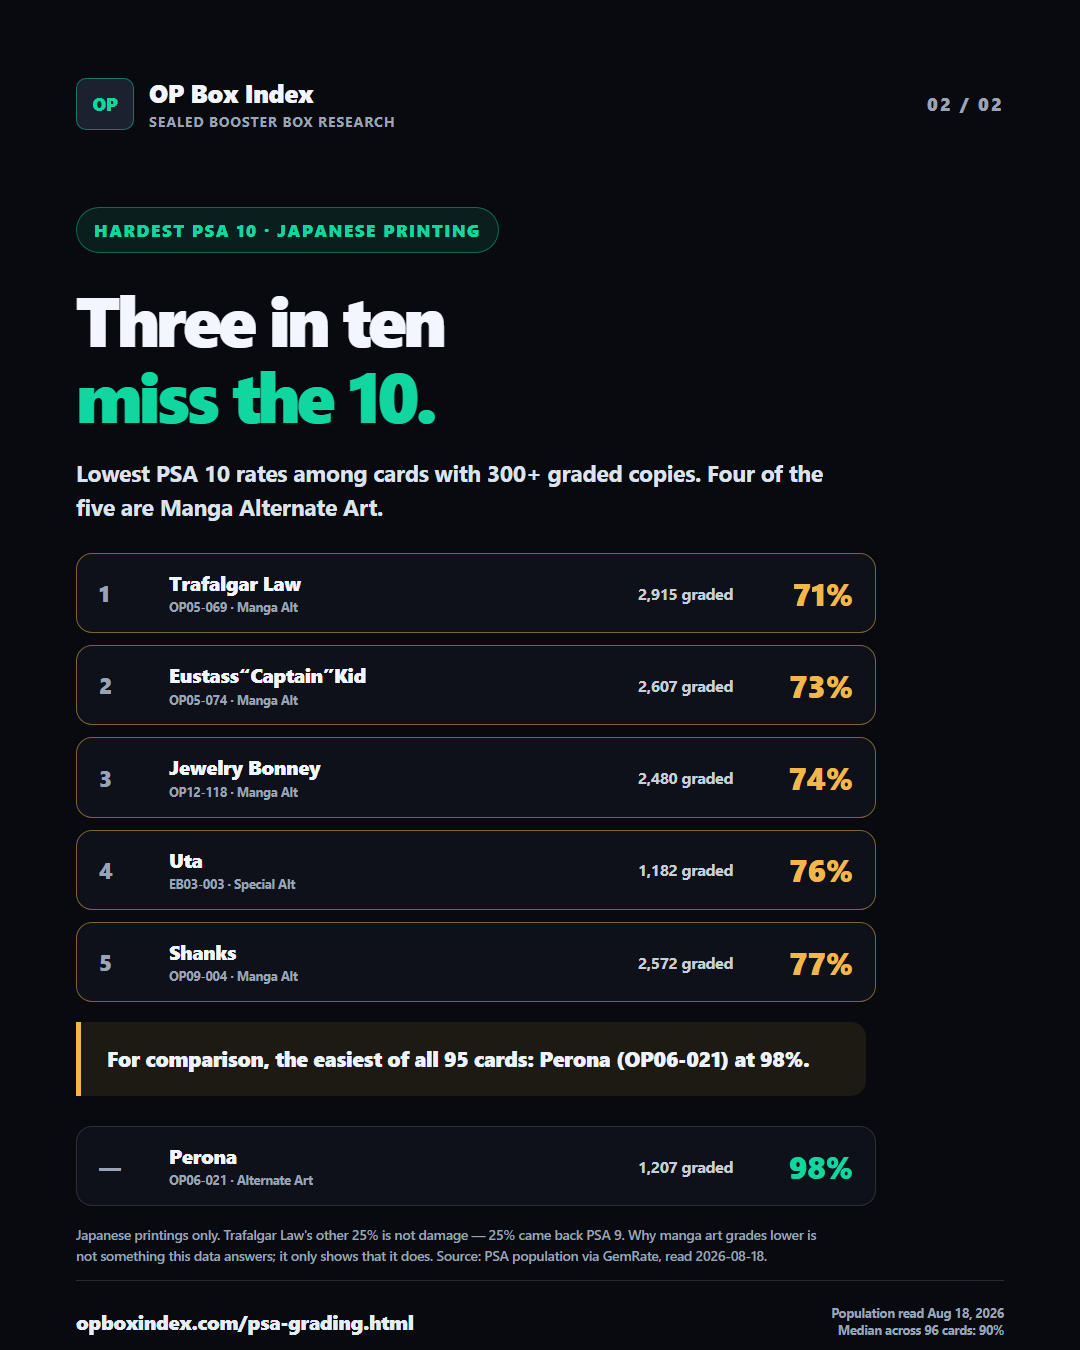
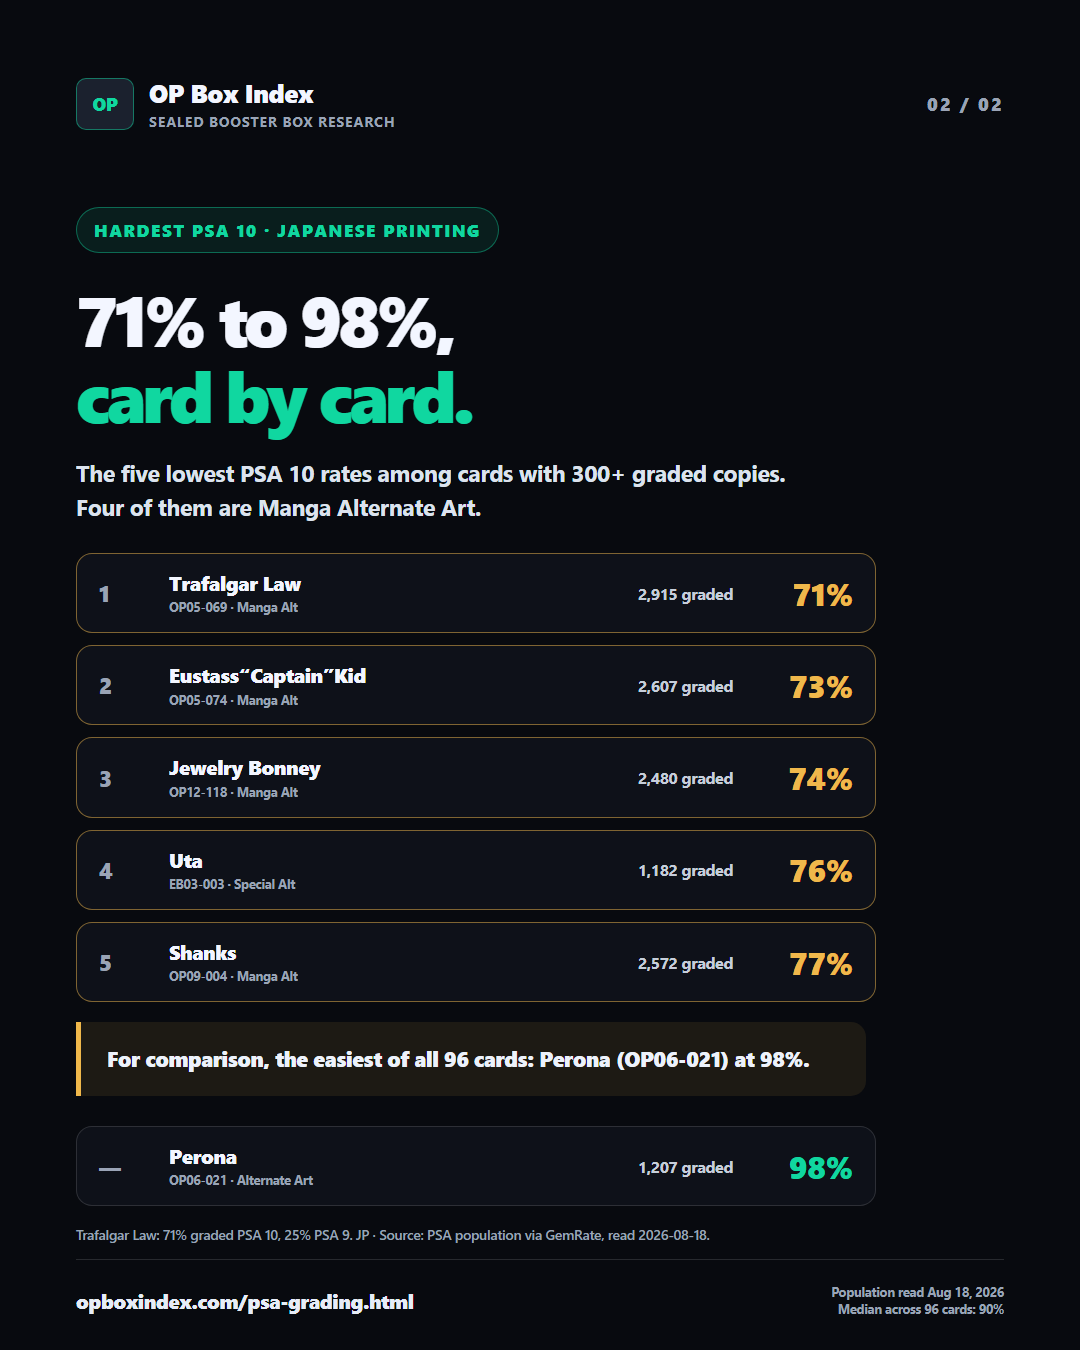
PSA 영문 7세트 보충 + 240 상한 판정을 실제 박스 건수로 교체
1) 어제 "요청 한도"로 오진했던 영문 7세트는 **교차 출처 차단**이었다.
   eBay 탭에서 gemrate.com 으로 fetch 하면 전부 FAIL 이 난다. gemrate 페이지 위에서
   같은 오리진으로 돌리니 7/7 이 한 번에 들어왔다(32건 적재). 이제 40세트가 다 찼다.
   post-copy.md 수집 메모에 이 조건을 적어 뒀다.

2) 240 상한 판정에서 rawN 을 걷어냈다. 어제 "137/210 페이지가 상한에 걸렸다"고 보고했는데
   그건 오독이다 — 우리 수집기 주석에 "rawN 을 상한 판정에 쓰지 말 것"이라고 적혀 있는데
   그걸 어겼다. eBay 는 결과가 적으면 유사 상품으로 240칸을 채운다.
   실측(2026-08-18, OP-16 영문 15만~30만): rawN 242 인데 진짜 부스터박스는 135건.
   그 구간을 반으로 쪼개 다시 받아 보니 145건(+7.4%), 과거로 11일 더. 전면 재수집으로
   얻을 게 7% 뿐이라는 뜻이라, 다음 수집 때 가격대만 늘리는 쪽이 맞다.
   판정은 이제 **우리가 박스로 판정한 행이 235 이상인 구간**만 잡는다.

3) 스레드 카드 문구 정리: 슬라이드 2 제목을 최저 카드 하나 이야기("Three in ten miss the 10")
   에서 이 장이 실제로 보여주는 것("71% to 98%, card by card")으로 바꿨다.
   두 장의 각주에서 방어 문장과 방법론 변명을 걷어내고 "JP · 300+ graded copies only" 로 줄였다.

Changed region(s): [[0.0611, 0.2178, 0.7639, 0.4044], [0.0611, 0.9022, 0.7639, 0.9956], [0.7639, 0.9333, 0.9472, 0.9956]]

diff --git a/tools/box-sold-ingest.js b/tools/box-sold-ingest.js
@@ -162,13 +162,19 @@ function main(dumpFile) {
   const drops = {};
   let backfilled = 0;   // 기존 레코드에 fmt 를 뒤늦게 채운 수
   const seenBySet = {};  // 세트별로 이번 덤프에서 본 유효 sold (스냅샷 계산용)
-  // eBay 는 한 검색에 240~265건까지만 준다(_pgn 은 무시된다). 그 수에 닿은 페이지는 **잘린 것**이라
-  // 그 구간의 오래된 판매를 못 봤다는 뜻이다. 조용히 넘어가면 "다 모았다"고 착각한다.
+  // eBay 는 한 검색에 240~265건까지만 준다(_pgn 은 무시된다). 그 수에 닿은 구간은 잘린 것이라
+  // 오래된 판매를 못 봤다는 뜻이다. 조용히 넘어가면 "다 모았다"고 착각한다.
+  //
+  // ⚠ 판정에 rawN 을 쓰면 안 된다 — 2026-08-18 실측: OP-16 영문 15만~30만 구간이 rawN 242 였는데
+  //    실제 부스터박스는 135건이고 나머지 107개는 eBay 가 채운 유사 상품이었다. 그 구간을 반으로
+  //    쪼개 봤더니 145건(+7%)에 그쳤다 — rawN 으로 세면 "137/210 페이지가 잘렸다"는 잘못된 경보가 난다.
+  //    실제로 잘렸는지는 **우리가 박스로 판정한 건수(kept)** 가 240 에 닿았는지로 본다.
   const cappedPages = [];
   for (const page of dump.pages || []) {
     const code = page.code;
     if (!data.sets[code]) continue;
-    if (Number(page.rawN) >= 240) cappedPages.push(code + "/" + page.query + (page.band != null ? "/" + page.band : ""));
+    const boxLike = (page.items || []).filter((it) => /booster\s*box/i.test(String(it.t || ""))).length;
+    if (boxLike >= 235) cappedPages.push(code + "/" + page.query + (page.band != null ? "/" + page.band : ""));
     // 이번 덤프에서 유효 판정된 건 전부(이미 아는 id 포함) — 스냅샷 계산용
     const seen = { jp: [], en: [] };
     let appended = 0;
@@ -237,7 +243,7 @@ function main(dumpFile) {
 
   const totals = Object.values(ledger.sets).reduce((a, s) => a + (s.jp || []).length + (s.en || []).length, 0);
   const cappedNote = cappedPages.length
-    ? `${cappedPages.length}/${(dump.pages || []).length} pages hit eBay's ~240-result ceiling — older sales in those slices were not visible. Narrow the price bands to recover them.`
+    ? `${cappedPages.length}/${(dump.pages || []).length} slices returned 235+ real booster-box rows — those hit eBay's ~240 ceiling and their older sales were not visible. Narrow those price bands. (rawN is not a ceiling signal: eBay pads short result sets with similar items.)`
     : null;
   console.log(JSON.stringify({ pages: (dump.pages || []).length, summary, drops, backfilled, capped: cappedPages.length, cappedNote, ledgerTotal: totals }));
 }

diff --git a/assets/social/threads-2026-08-18-psa-gem-by-variant/slide-02-en.html b/assets/social/threads-2026-08-18-psa-gem-by-variant/slide-02-en.html
@@ -17,8 +17,8 @@
       </div>
 
       <div class="eyebrow">HARDEST PSA 10 · JAPANESE PRINTING</div>
-      <h1>Three in ten<br /><span>miss the 10.</span></h1>
-      <p class="deck">Lowest PSA 10 rates among cards with 300+ graded copies. Four of the five are Manga Alternate Art.</p>
+      <h1>71% to 98%,<br /><span>card by card.</span></h1>
+      <p class="deck">The five lowest PSA 10 rates among cards with 300+ graded copies. Four of them are Manga Alternate Art.</p>
 
       <section class="cardList" aria-label="Cards with the lowest PSA 10 rate">
         <article class="cardItem top">
@@ -53,7 +53,7 @@
         </article>
       </section>
 
-      <div class="insightBar">For comparison, the easiest of all 95 cards: Perona (OP06-021) at 98%.</div>
+      <div class="insightBar">For comparison, the easiest of all 96 cards: Perona (OP06-021) at 98%.</div>
 
       <section class="cardList" aria-label="Highest PSA 10 rate">
         <article class="cardItem best">
@@ -64,7 +64,7 @@
         </article>
       </section>
 
-      <p class="source">Japanese printings only. Trafalgar Law's other 25% is not damage — 25% came back PSA 9. Why manga art grades lower is not something this data answers; it only shows that it does. Source: PSA population via GemRate, read 2026-08-18.</p>
+      <p class="source">Trafalgar Law: 71% graded PSA 10, 25% PSA 9. JP · Source: PSA population via GemRate, read 2026-08-18.</p>
 
       <div class="footerRow">
         <div class="url">opboxindex.com/psa-grading.html</div>

diff --git a/assets/social/threads-2026-08-18-psa-gem-by-variant/slide-01-en.html b/assets/social/threads-2026-08-18-psa-gem-by-variant/slide-01-en.html
@@ -49,7 +49,7 @@
       </section>
 
       <div class="insightBar">Manga Alternate Art lands 6.4 points below plain Alternate Art — across 72,121 graded copies.</div>
-      <p class="source">Japanese printings only; English kept separate. Cards with fewer than 300 graded copies excluded. Weighted by population, not by card. Bars are drawn on an 82–93% scale so the gap is visible. Source: PSA population via GemRate, read 2026-08-18.</p>
+      <p class="source">JP · 300+ graded copies only · weighted by population · bars on an 82–93% scale. Source: PSA population via GemRate, read 2026-08-18.</p>
 
       <div class="footerRow">
         <div class="url">opboxindex.com/psa-grading.html</div>
